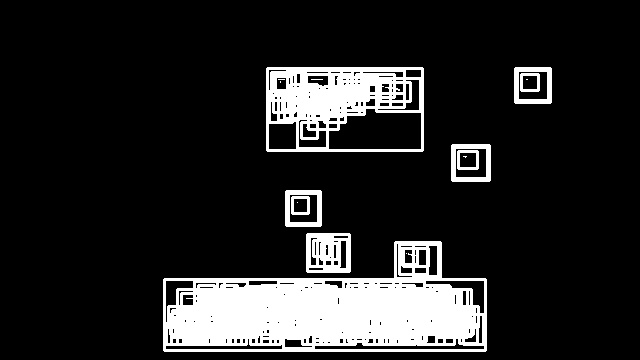
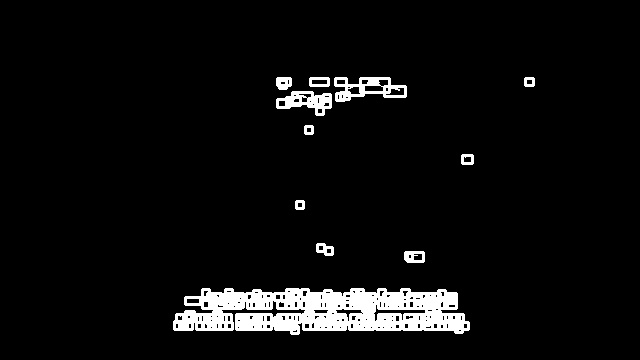
ready to fill rectangles with white

Changed region(s): [[0.25, 0.5194, 0.7812, 0.9778], [0.4062, 0.1833, 0.7812, 0.5194], [0.7812, 0.1833, 0.875, 0.3056]]

diff --git a/library/simpel_video_filter.py b/library/simpel_video_filter.py
@@ -21,25 +21,28 @@ def basic_color_mask(image, color_range_hsv):
 
 def white_contours(basic_color_mask):
     mask = basic_color_mask.copy()
+    basic2 = basic_color_mask.copy()
     # "127,255" might have to be changed if we choose a color other than white
     _, mask = cv2.threshold(mask, 127, 255, cv2.THRESH_BINARY)
     _, contours, _ = cv2.findContours(mask, cv2.RETR_TREE, cv2.CHAIN_APPROX_NONE)
     for contour in contours:
         rect = cv2.boundingRect(contour)
         x, y, w, h = rect
-        cv2.rectangle(basic_color_mask, (x-5, y-5), (x+w+10, y+h+10), (255, 255, 255), 2)
-    return basic_color_mask
+        cv2.rectangle(basic2, (x-1, y-1), (x+w+5, y+h+5), (255, 255, 255), 2)
+        ## fill the rectangles with white
+        
+    return basic2
 
-def non_contours_to_dark(white_contours, color_range_hsv):
-    #image = white_contours(image, color_range_hsv)
-    image = white_contours
-    #hsv = cv2.cvtColor(image, cv2.COLOR_BGR2HSV)
-    lower_color_range = np.array(color_range_hsv[0], dtype=np.uint8)
-    upper_color_range = np.array(color_range_hsv[1], dtype=np.uint8)
-    mask = cv2.inRange(image, lower_color_range, upper_color_range)
+def big_contours(white_contours):
+    mask = white_contours.copy()
+    basic2 = white_contours.copy()
     _, mask = cv2.threshold(mask, 127, 255, cv2.THRESH_BINARY)
-    return mask
-
+    _, contours, _ = cv2.findContours(mask, cv2.RETR_TREE, cv2.CHAIN_APPROX_NONE)
+    for contour in contours:
+        rect = cv2.boundingRect(contour)
+        x, y, w, h = rect
+        cv2.rectangle(basic2, (x-1, y-1), (x+w+2, y+h+2), (100, 100, 100), 2)
+    return basic2
 
 
 

diff --git a/saveImToBook.py b/saveImToBook.py
@@ -36,7 +36,9 @@ while(cap.isOpened()):
         try:
             basic = filt.basic_color_mask(frame, [[0,0,255],[255,255,255]])
             cont = filt.white_contours(basic)
-            secondIter = filt.white_contours(cont)#filt.non_contours_to_dark(cont, [[0,0,255],[255,255,255]])
+            #secondIter = filt.big_contours(cont)#filt.non_contours_to_dark(cont, [[0,0,255],[255,255,255]])
+            
+            
             #cv2.imshow("secondIter", secondIter)
             
             # her er den gamle billedbehandling
@@ -65,17 +67,17 @@ while(cap.isOpened()):
         pic_path = "book/frame_"+str(count)+"_basic.jpg"   #"pic/pic2W.jpg"
         filename = pic_path.format(os.getpid())
         cv2.imwrite(filename, basic)
-
+        
         pic_path = "book/frame_"+str(count)+"_cont.jpg"   #"pic/pic2W.jpg"
         filename = pic_path.format(os.getpid())
         cv2.imwrite(filename, cont)
         
-        pic_path = "book/frame_"+str(count)+"_secondIter.jpg"   #"pic/pic2W.jpg"
-        filename = pic_path.format(os.getpid())
-        cv2.imwrite(filename, secondIter)
+        #pic_path = "book/frame_"+str(count)+"_secondIter.jpg"   #"pic/pic2W.jpg"
+        #filename = pic_path.format(os.getpid())
+        #cv2.imwrite(filename, secondIter)
         
 
-        #stop script after 10 frames:
+        #stop script after X frames:
         if (count > 850):
             break
     
